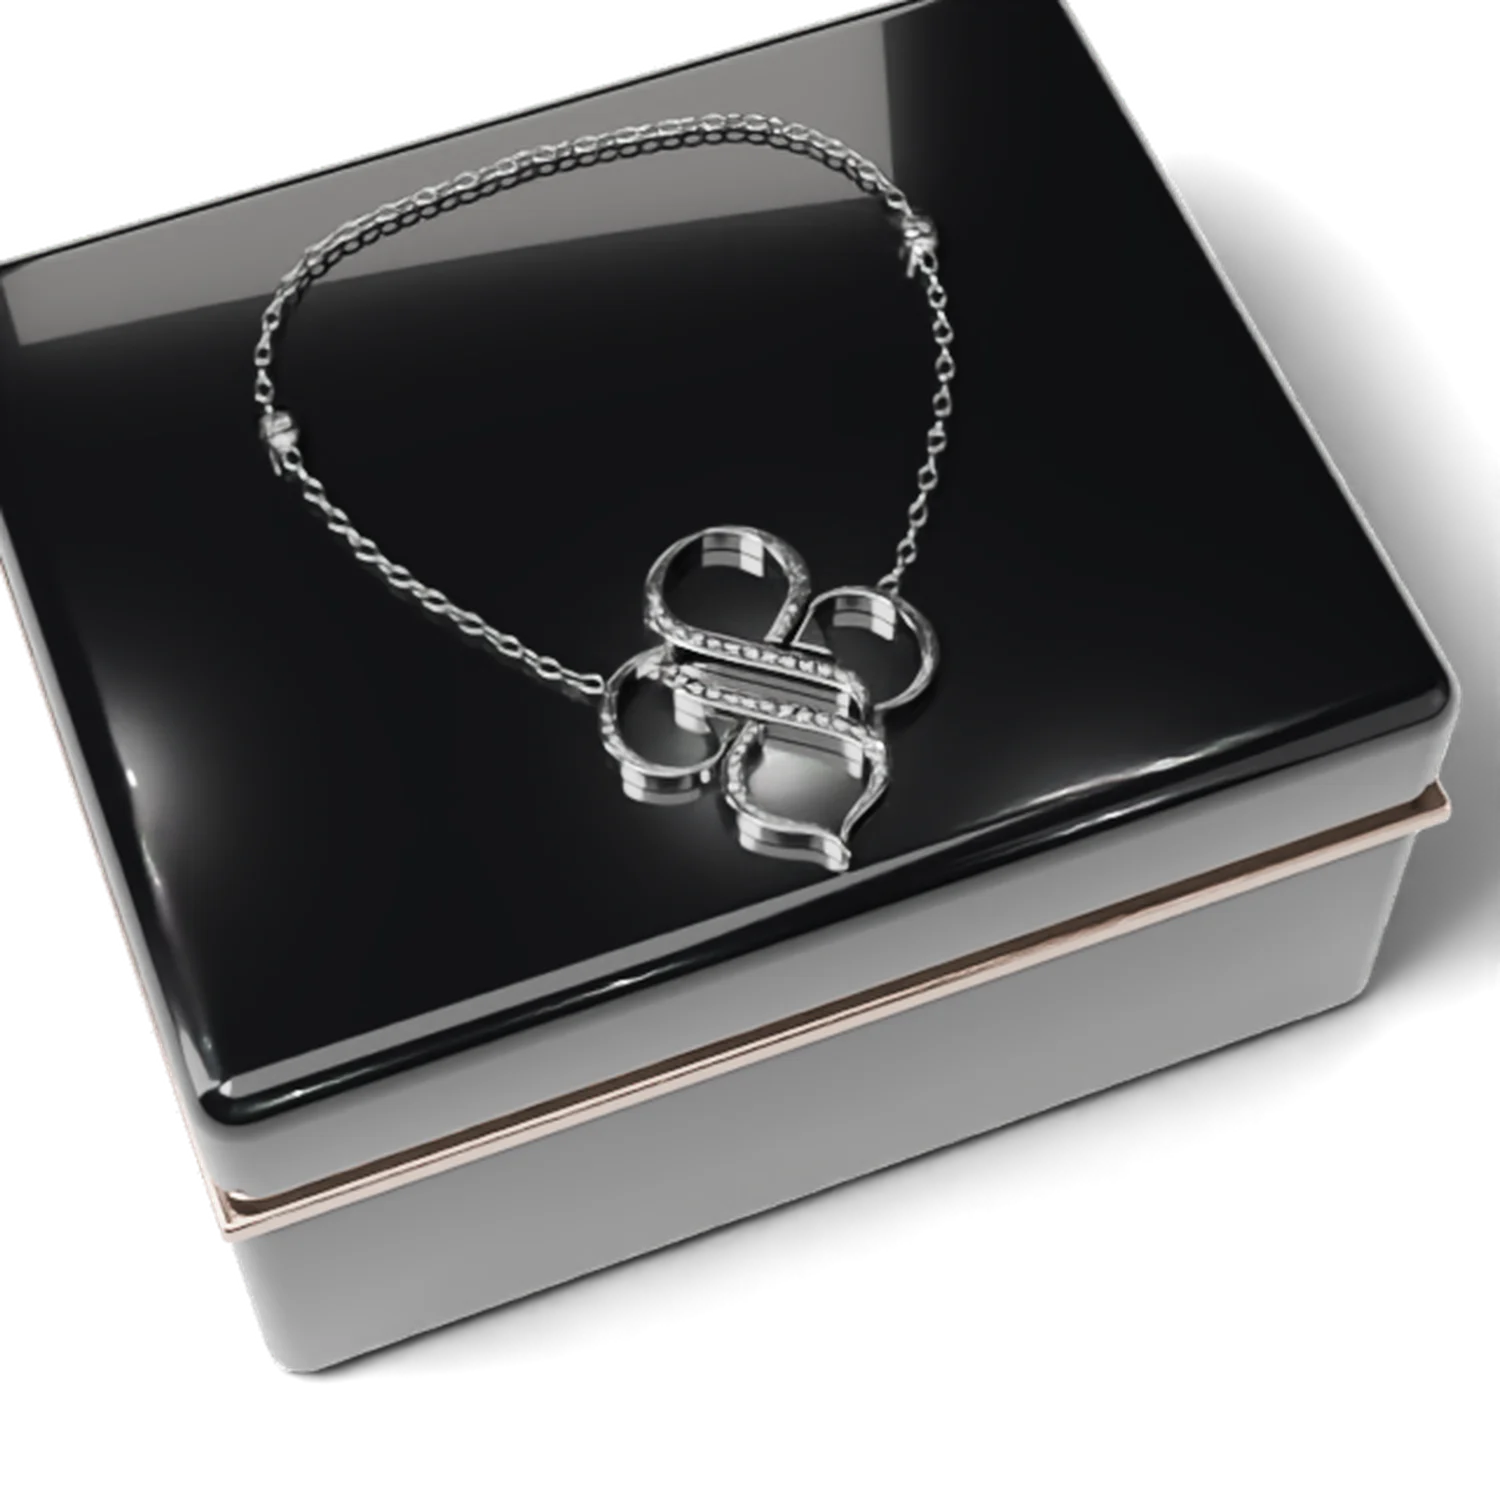
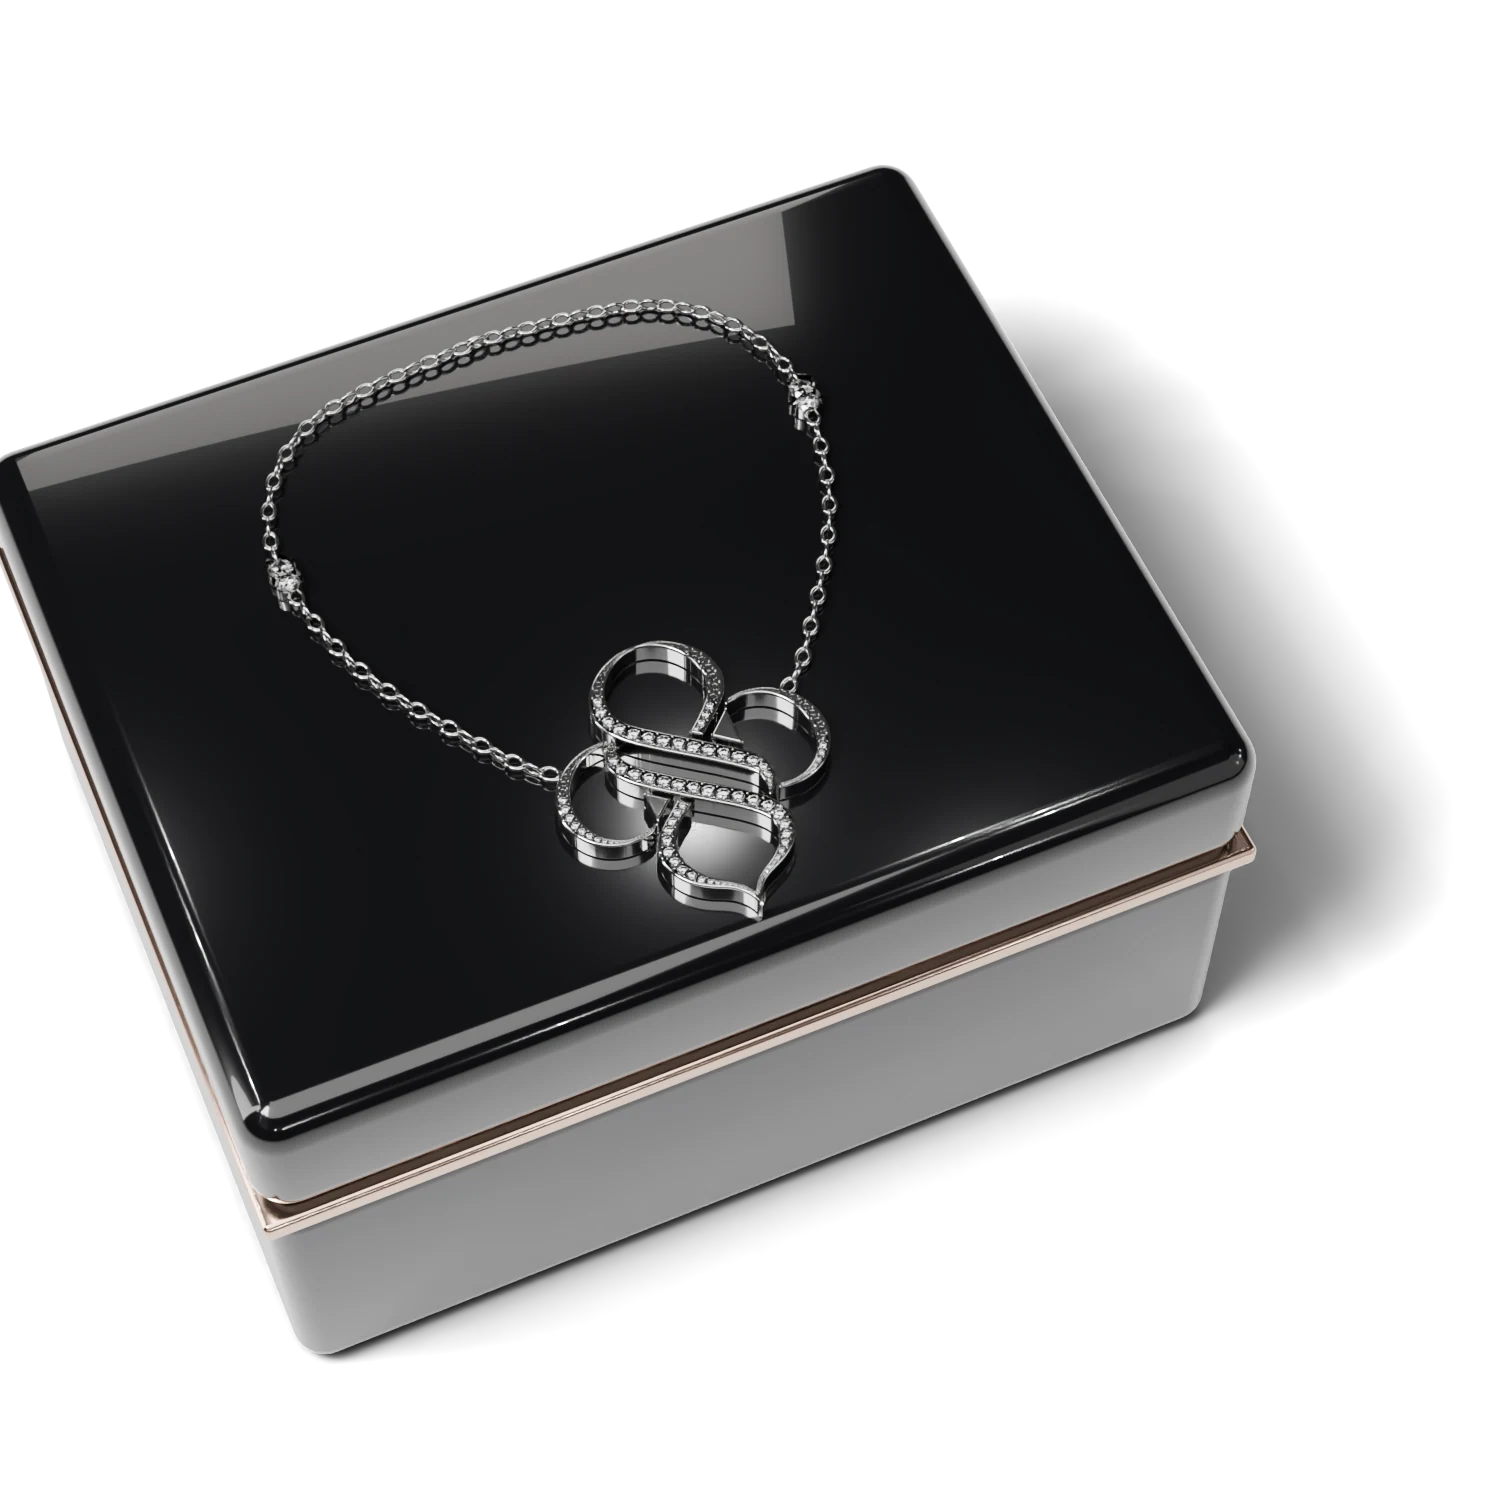
/test12/: the full render of SOUL on its box
Claude-Session: https://claude.ai/code/session_01EVKk2U5WDZA3AgzZQf8J4R

diff --git a/website/tools/soul-box.py b/website/tools/soul-box.py
@@ -50,7 +50,7 @@ bpy.ops.mesh.primitive_plane_add(size=3000, location=(0, 0, -BZ)); floor = bpy.c
 sc.render.film_transparent = True
 
 # ── the studio: a white room's soft light, and dark flags for the stones' drawing
-AIM = bpy.data.objects.new("aim", None); sc.collection.objects.link(AIM); AIM.location = (7, 8, -12)
+AIM = bpy.data.objects.new("aim", None); sc.collection.objects.link(AIM); AIM.location = (2, 8, -12)
 def aim(o, axis="TRACK_NEGATIVE_Z"):
     c = o.constraints.new("TRACK_TO"); c.target = AIM; c.track_axis = axis; c.up_axis = "UP_Y"
 def area(name, size, loc, power, sy=None, color=(1, 1, 1)):
@@ -81,7 +81,7 @@ bg = world.node_tree.nodes["Background"]; bg.inputs["Color"].default_value = (0.
 # ── the camera: in front and to one side, looking down at the lid
 cam = bpy.data.cameras.new("cam"); cam.lens = 85; cam.sensor_width = 36
 co = bpy.data.objects.new("cam", cam); sc.collection.objects.link(co); sc.camera = co
-dist = float(argv[8]) if len(argv) > 8 else 215
+dist = float(argv[8]) if len(argv) > 8 else 226
 co.location = Vector((dist * math.cos(EL) * math.sin(AZ), -dist * math.cos(EL) * math.cos(AZ), dist * math.sin(EL)))
 aim(co)
 
